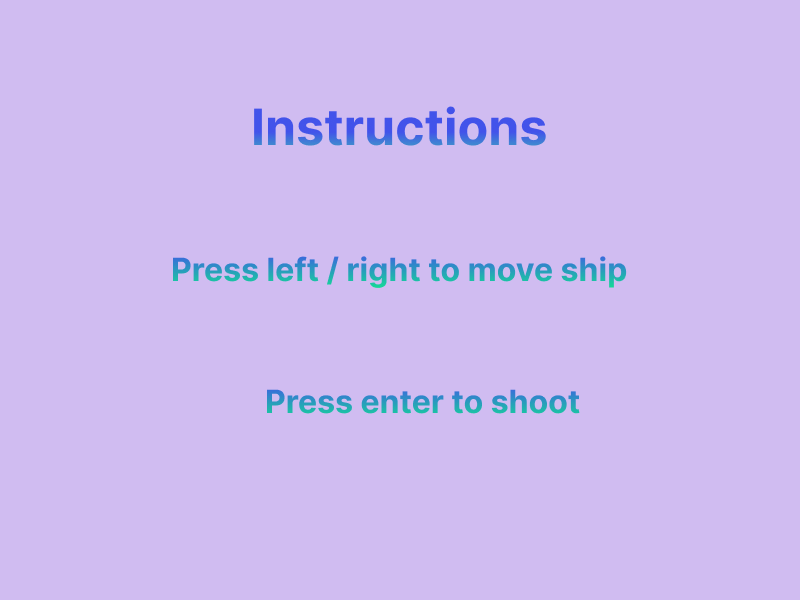
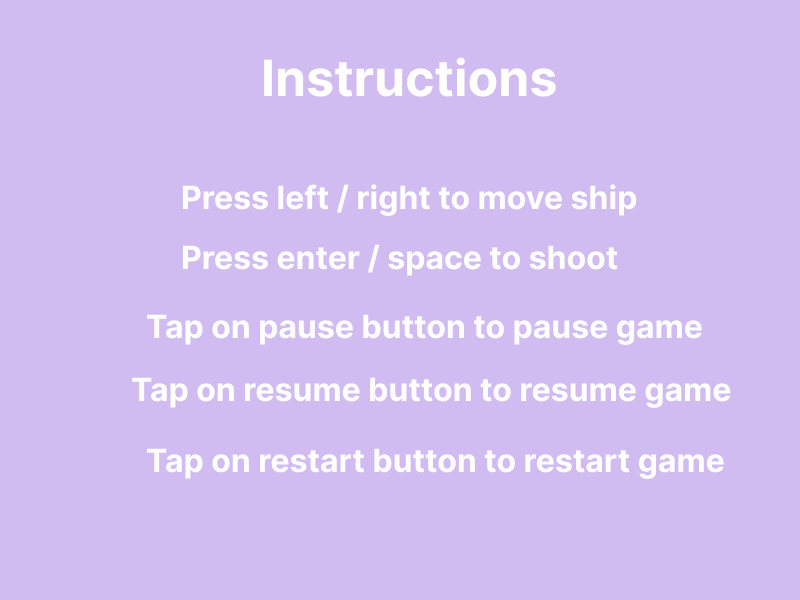
debug the game and updated some features

diff --git a/src/index.js b/src/index.js
@@ -16,6 +16,12 @@ import Phaser from 'expose-loader?Phaser!phaser-ce/build/custom/phaser-split.js'
 // Initialize Phaser
 var game = new Phaser.Game(800, 600, Phaser.AUTO, 'game-container');
 
+// Taking care of transition between state to make game in working state
+game.checkOfGameState = {
+    // Add any data you want to pass to the next state
+    comingFromGameOver: false
+};
+
 // Game start scene
 var GameStart = function(game) {};
 
@@ -51,6 +57,7 @@ GameStart.prototype = {
 
     showInstructions: function() {
       // Transition to the instructions scene
+    //   this.isInstructionWatched = localStorage.getItem('instructionsSeen', true);
       game.state.start('Instructions');
     }
 };
@@ -71,7 +78,7 @@ Instructions.prototype = {
         this.instructionsOverlay.anchor.setTo(0.5);
     
         // Add continue button to hide the instructions
-        this.continueButton = game.add.button(game.world.centerX, game.world.centerY + 200, 'continueButton', this.hideInstructions, this);
+        this.continueButton = game.add.button(game.world.centerX, game.world.centerY + 230, 'continueButton', this.hideInstructions, this);
         this.continueButton.anchor.setTo(0.5);
     },
 
@@ -88,6 +95,7 @@ Instructions.prototype = {
 
 // Game play scene
 var GamePlay = function(game) {
+ 
     this.rocket;
     this.bullets;
     this.enemies;
@@ -106,7 +114,7 @@ GamePlay.prototype = {
     preload: function() {
         // Load assets for the game play scene
         // InstructionScreen.png
-        game.load.image('rocket', './assets/images/rocket.png');
+        game.load.image('rocket', './assets/images/rocket1.png');
         game.load.image('bullet', './assets/images/bullet.png');
         game.load.image('enemy', './assets/images/enemy.png');
         game.load.image('pauseButton', './assets/images/pauseButton.png');
@@ -118,18 +126,22 @@ GamePlay.prototype = {
     create: function() {
         // Initialize game play elements
         // Example: this.player = game.add.sprite(100, 100, 'player');
+        // Enable the Arcade physics system
+        // Access the previous state
 
+        if(game.checkOfGameState.comingFromGameOver){
+            this.gameOver = false;
+        }
           // Initialize game play elements
-          this.rocket = game.add.sprite(game.world.centerX, game.world.height - 50, 'rocket');
+          this.rocket = game.add.sprite(game.world.centerX, game.world.height, 'rocket');
           this.rocket.anchor.setTo(0.5);
-          this.rocket.scale.setTo(0.2);
           this.physics.enable(this.rocket, Phaser.Physics.ARCADE);
           this.rocket.body.collideWorldBounds = true;
+        //   this.rocket.tint = 0xFF0000; 
             // Enable debug mode for physics body
-          this.rocket.body.debug = true;
+        //   this.rocket.body.debug = true;
 
           this.bullets = game.add.group();
-          this.bullets.scale.setTo(0.5);
           this.bullets.enableBody = true;
           this.bullets.physicsBodyType = Phaser.Physics.ARCADE;
           this.bullets.createMultiple(50, 'bullet');
@@ -140,13 +152,12 @@ GamePlay.prototype = {
 
   
           this.enemies = game.add.group();
-          this.enemies.scale.setTo(0.2);
           this.enemies.enableBody = true;
           this.enemies.physicsBodyType = Phaser.Physics.ARCADE;
   
           this.scoreText = game.add.text(20, 20, 'Score: 0', { font: '20px Arial', fill: '#fff' });
   
-          this.pauseButton = game.add.button(game.world.width - 20, 20, 'pauseButton', this.togglePause, this);
+          this.pauseButton = game.add.button(game.world.width - 20, 20, 'pauseButton', this.pauseGame, this);
           this.pauseButton.anchor.setTo(1, 0);
   
           // Pause screen
@@ -154,7 +165,7 @@ GamePlay.prototype = {
           this.pauseScreen.anchor.setTo(0.5);
           this.pauseScreen.visible = false;
   
-          this.resumeButton = game.add.button(game.world.centerX, game.world.centerY - 50, 'resumeButton', this.togglePause, this);
+          this.resumeButton = game.add.button(game.world.centerX, game.world.centerY - 50, 'resumeButton', this.resumeGame, this);
           this.resumeButton.anchor.setTo(0.5);
           this.resumeButton.visible = false;
   
@@ -163,17 +174,24 @@ GamePlay.prototype = {
           this.restartButton.visible = false;
   
           this.createEnemies();
+     
+
+    
     },
 
     update: function() {
         // Update game play logic
+        console.log('here')
+      
+
+        console.log(this.isPaused, this.gameOver);
         if (!this.isPaused  && !this.gameOver) {
+            console.log('not able to come here ')
             // Update game play logic
             this.moveRocket();
             this.fireBullet();
             this.moveEnemies();
             this.checkCollisions();
-            this.createEnemies();
         }
     },
     moveRocket: function() {
@@ -188,37 +206,38 @@ GamePlay.prototype = {
     },
     fireBullet: function() {
         // Fire bullet with the Enter key
-        if (game.input.keyboard.isDown(Phaser.Keyboard.ENTER)) {
+        if (game.input.keyboard.isDown(Phaser.Keyboard.ENTER) || game.input.keyboard.isDown(Phaser.Keyboard.SPACEBAR)) {
             var bullet = this.bullets.getFirstExists(false);
-
+    
             if (bullet) {
-                bullet.reset(this.rocket.x, this.rocket.y -  this.rocket.height / 2);
+                bullet.reset(this.rocket.x, this.rocket.y - 8); // Adjusted y position
                 bullet.body.velocity.y = -400;
             }
         }
-    },
+    },    
     moveEnemies: function() {
         // Move enemies downward
         this.enemies.y += 1;
 
         // Check if enemies are out of bounds and create new enemies
-        if (this.enemies.y > game.world.height) {
+        if (this.enemies.y +100 > game.world.height) {
             this.enemies.y = -100;
             this.createEnemies();
         }
     },
+
     createEnemies: function() {
         // Create enemies at random x positions
-    
-        var enemy = this.enemies.create(game.rnd.integerInRange(0, game.world.width), -100, 'enemy');
-        // enemy.body.velocity.y = game.rnd.integerInRange(50, 150);
-        enemy.anchor.setTo(0.5, 0.5);  // Set the anchor for better rotation effects
-        enemy.body.velocity.y = game.rnd.integerInRange(50, 150);
-        // enemy.body.velocity.x = game.rnd.integerInRange(-50, 50);  // Add a random horizontal velocity
-        enemy.rotation = game.physics.arcade.angleBetween(enemy, this.rocket);  // Face the rocket initially
-
+        for (var i = 0; i < 5; i++) {
+            var enemy = this.enemies.create(game.rnd.integerInRange(50, game.world.width - 50), -100, 'enemy');
+            enemy.anchor.setTo(0.5, 0.5);
+            // enemy.body.velocity.y = game.rnd.integerInRange(50, 150);
+            enemy.body.velocity.x = game.rnd.integerInRange(-50, 50);
+            enemy.body.velocity.y = game.rnd.integerInRange(50, 150);
+            enemy.rotation = game.physics.arcade.angleBetween(enemy, this.rocket);
+        }
     },
-
+    
     checkCollisions: function() {
         // Check for collisions between bullets and enemies
         game.physics.arcade.overlap(this.bullets, this.enemies, this.enemyHit, null, this);
@@ -235,30 +254,45 @@ GamePlay.prototype = {
         this.score += 10;
         this.scoreText.text = 'Score: ' + this.score;
     },
-    togglePause: function() {
-        // Toggle pause state
-        this.isPaused = !this.isPaused;
 
-        // Show/hide pause screen and buttons
-        this.pauseScreen.visible = this.isPaused;
-        this.resumeButton.visible = this.isPaused;
-        this.restartButton.visible = this.isPaused;
+    pauseGame: function() {
+        if (!this.isPaused && this.pauseButtonClickable) {
+            this.isPaused = true;
 
-        // Enable/disable pause button based on game pause state
-        this.pauseButtonClickable = !this.isPaused;
+            // Show/hide pause screen and buttons
+            this.pauseScreen.visible = true;
+            this.resumeButton.visible = true;
+            this.restartButton.visible = true;
 
-        // Enable/disable input on the pause button
-        this.pauseButton.inputEnabled = this.pauseButtonClickable;
+            // Disable input on the pause button
+            this.pauseButton.inputEnabled = false;
 
-        if (this.isPaused) {
+            // Pause the physics engine
             game.physics.arcade.isPaused = true;
-        } else {
+        }
+    },
+
+    resumeGame: function() {
+        if (this.isPaused) {
+            this.isPaused = false;
+
+            // Show/hide pause screen and buttons
+            this.pauseScreen.visible = false;
+            this.resumeButton.visible = false;
+            this.restartButton.visible = false;
+
+            // Enable input on the pause button
+            this.pauseButton.inputEnabled = true;
+
+            // Resume the physics engine
             game.physics.arcade.isPaused = false;
         }
     },
 
+    
     restartGame: function() {
         // Restart the game
+        console.log('restart clicked')
         this.isPaused = false;
         game.physics.arcade.isPaused = false;
         game.state.start('GamePlay');
@@ -310,8 +344,18 @@ GameOver.prototype = {
 
 
     restartGame: function() {
-        // Transition to the game start scene
-        game.state.start('GameStart');
+            // Transition to the game start scene
+            
+            game.state.start('GamePlay');
+
+          // Reset the game state
+          game.state.states.GamePlay.score = 0;
+          game.checkOfGameState.comingFromGameOver = true;
+  
+          // Re-enable the physics system
+          game.physics.arcade.isPaused = false;
+        //   game.physics.arcade.resume();
+  
     }
 };
 

diff --git a/public/index.html b/public/index.html
@@ -2,7 +2,7 @@
 <html>
     <head>
         <meta charset="UTF-8" />
-        <title>hello phaser-webpack</title>
+        <title>Shoot Up</title>
         <script src="./assets/scripts/bundle.js"></script>
     </head>
     <body>
